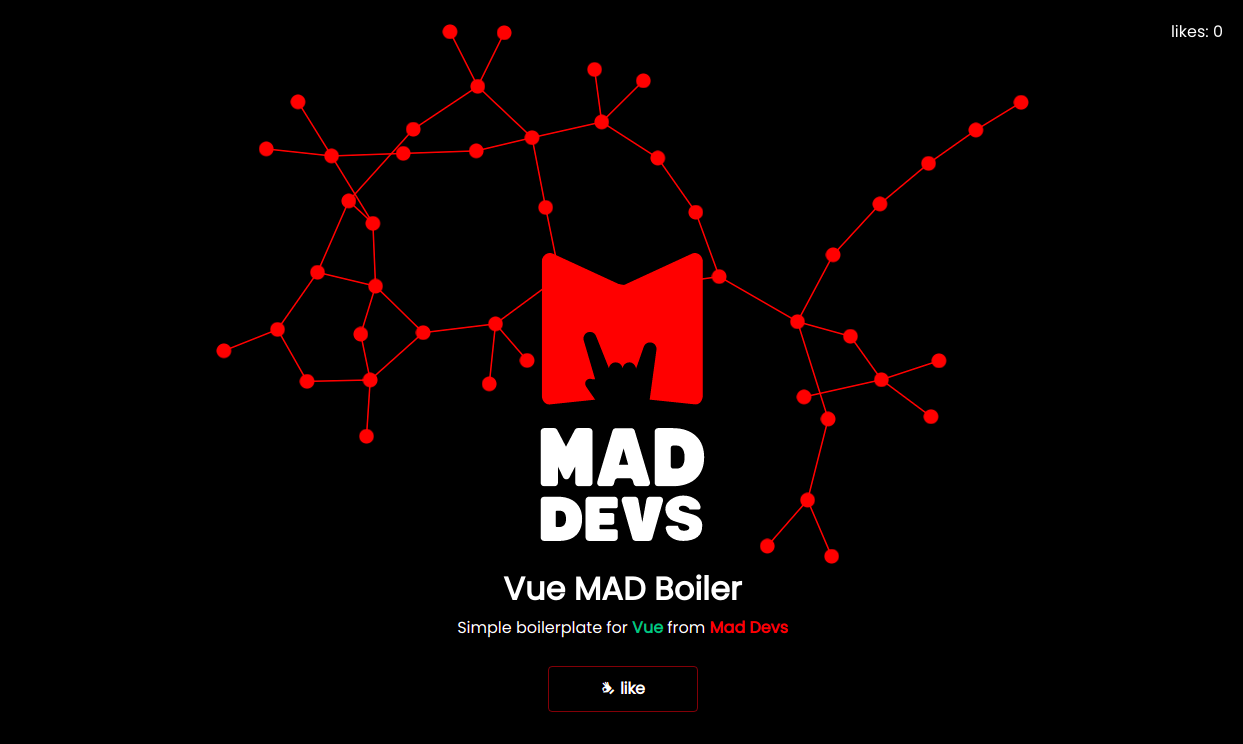
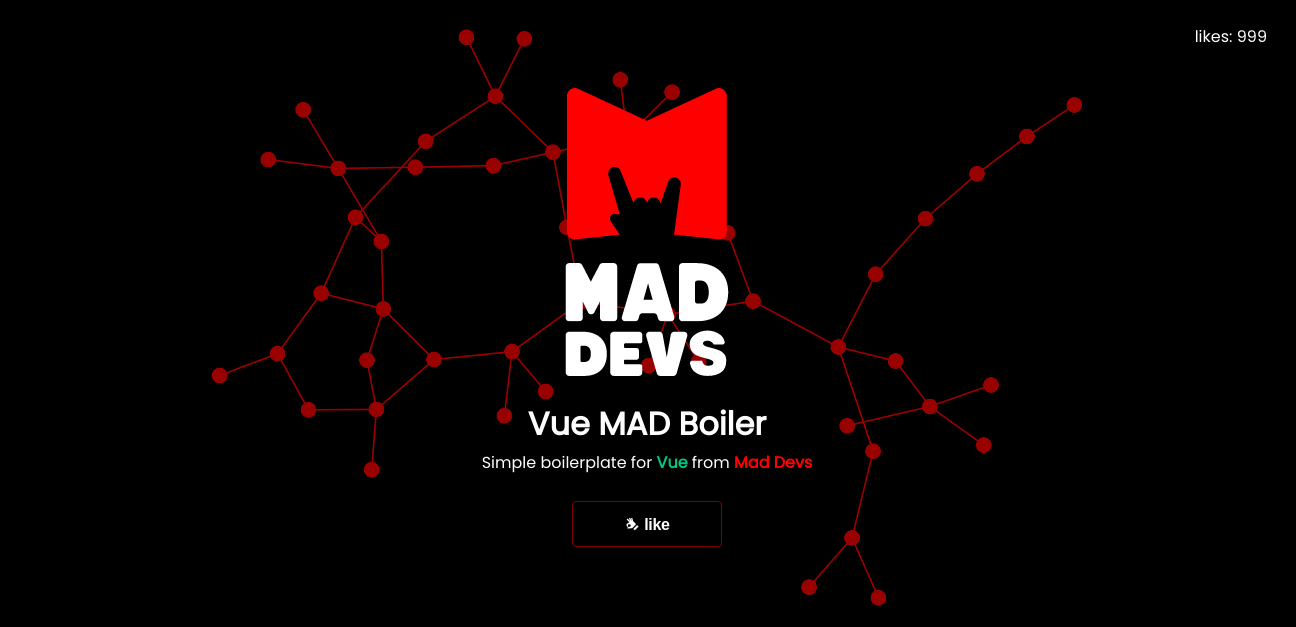
updated preview img in docs

diff --git a/src/components/HelloWorld.vue b/src/components/HelloWorld.vue
@@ -2,7 +2,11 @@
   <div class="hello-world">
     <BG />
     <img src="@/assets/img/md.svg" alt="Mad Devs" />
-    <h1>{{ $t('home.title') }}</h1>
+
+    <!-- With i18n -->
+    <!-- <h1>{{ $t('home.title') }}</h1> -->
+
+    <h1>Vue MAD Boiler</h1>
     <p class="desc">
       Simple boilerplate for
       <a href="https://vuejs.org/" target="_blank" class="vue">Vue</a>
@@ -40,13 +44,16 @@ export default {
   },
   data() {
     return {
-      likesCount: 0
+      likesCount: 999
     };
   },
   computed: {
     ...mapState('likes', {
       countFromStore: 'count'
     })
+  },
+  created() {
+    this.setLike(this.likesCount);
   },
   methods: {
     ...mapActions('likes', ['setLike']),

diff --git a/src/components/BG.vue b/src/components/BG.vue
@@ -691,6 +691,7 @@ export default {
   top: 0;
   left: 0;
   z-index: 0;
+  opacity: 0.6;
 }
 
 #cy {
